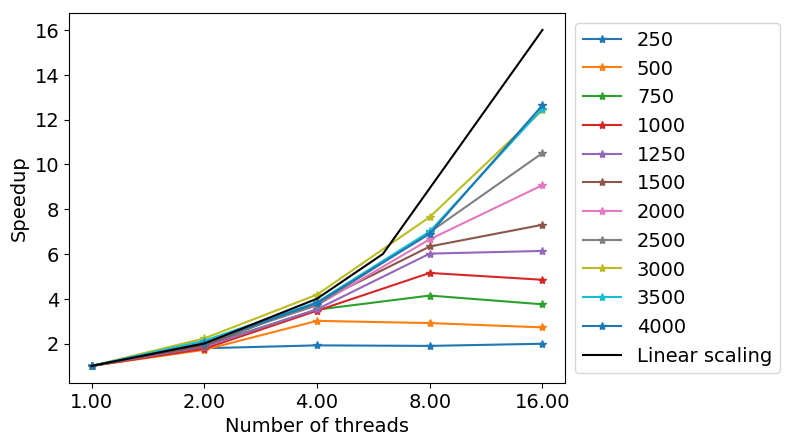
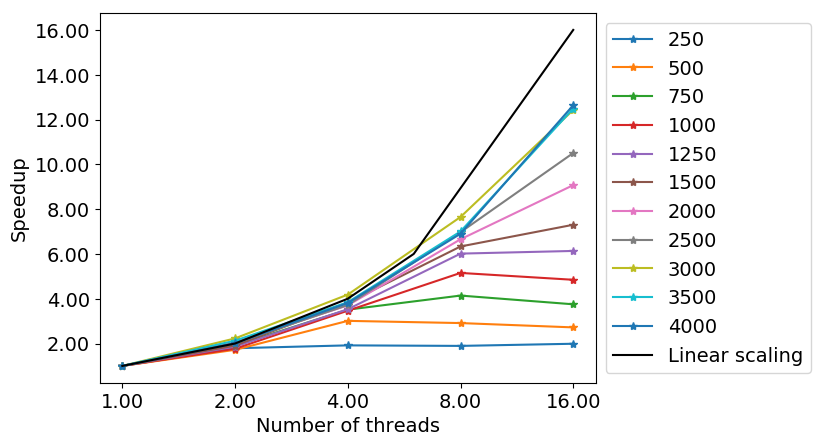
fix mandelbrot plots

diff --git a/mandelbrot/data/vizfun.py b/mandelbrot/data/vizfun.py
@@ -2,7 +2,7 @@ import pandas as pd
 import matplotlib as mpl
 mpl.use('Agg')
 import matplotlib.pyplot as plt
-from matplotlib.ticker import ScalarFormatter
+from matplotlib.ticker import ScalarFormatter, FormatStrFormatter
 import numpy as np
 
 font = {'size'   : 14}
@@ -64,7 +64,7 @@ plt.xscale('log',basex=2)
 #plt.yscale('log',basey=2)
 ax = plt.gca().xaxis
 ax.set_major_formatter(ScalarFormatter())
-#ax = plt.gca().yaxis
-#ax.set_major_formatter(ScalarFormatter())
+ax = plt.gca().yaxis
+ax.set_major_formatter(FormatStrFormatter('%.2f'))
 plt.savefig('Speedup_mandel.png', bbox_inches='tight')
 plt.close()
